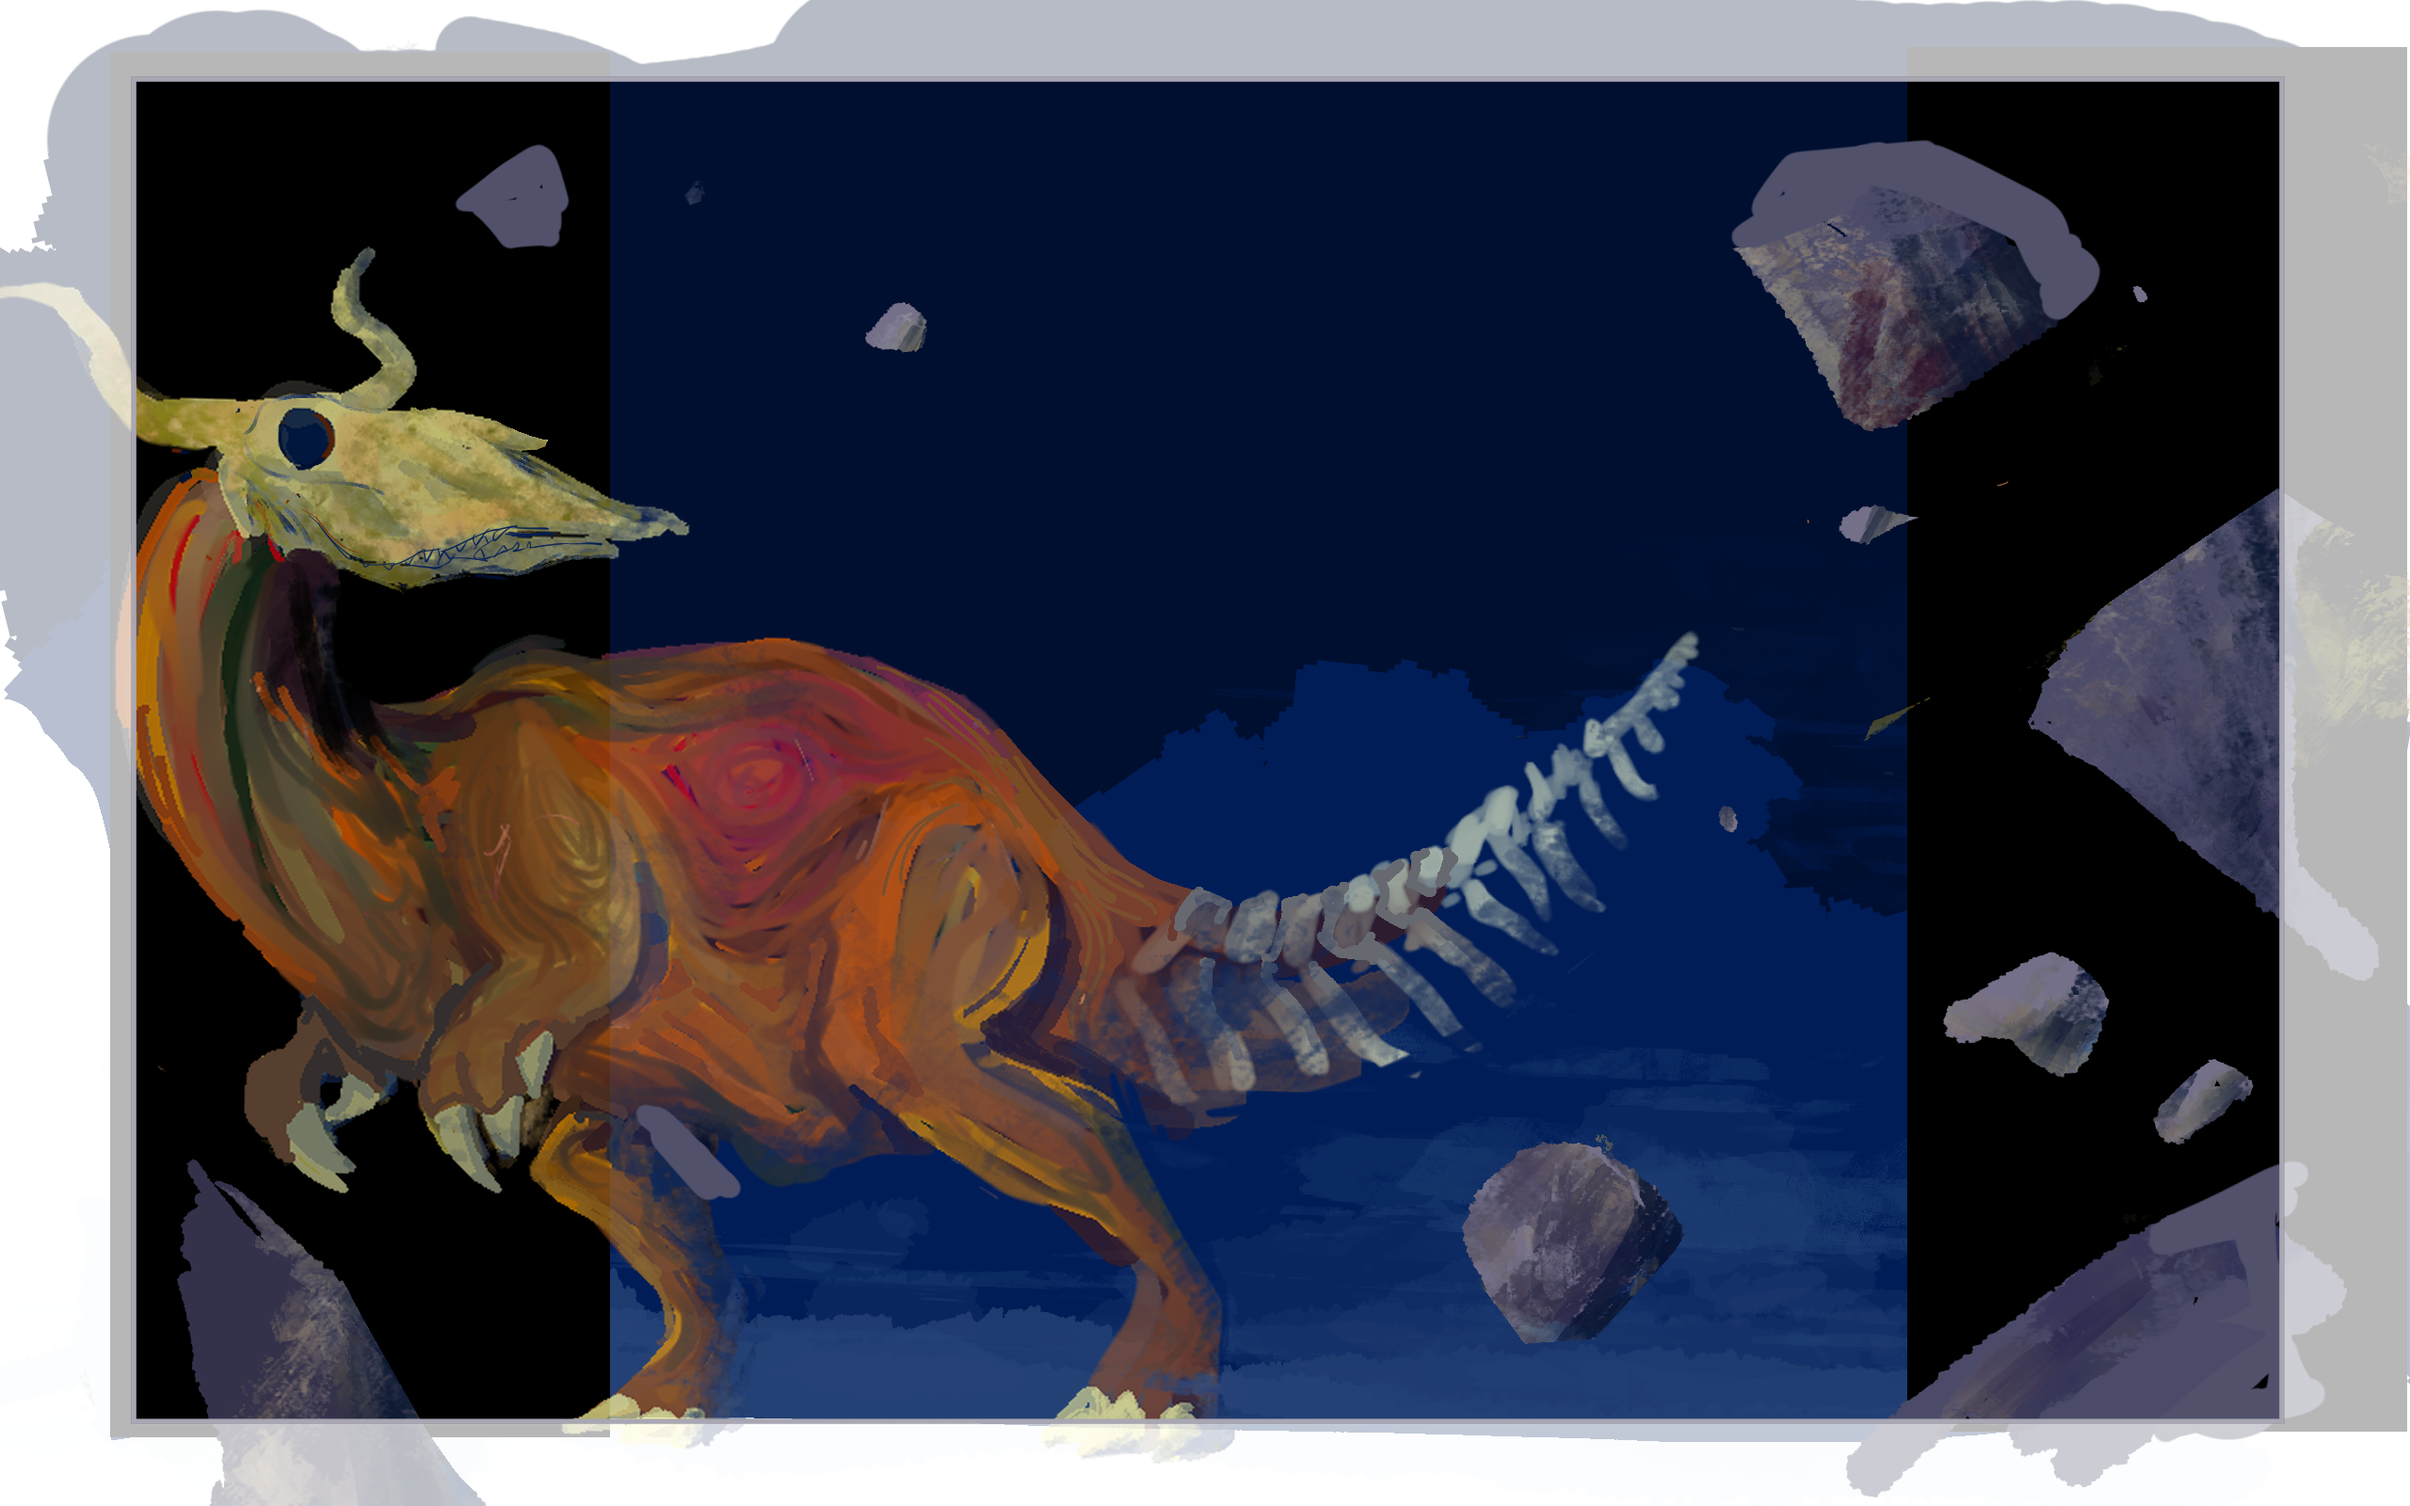
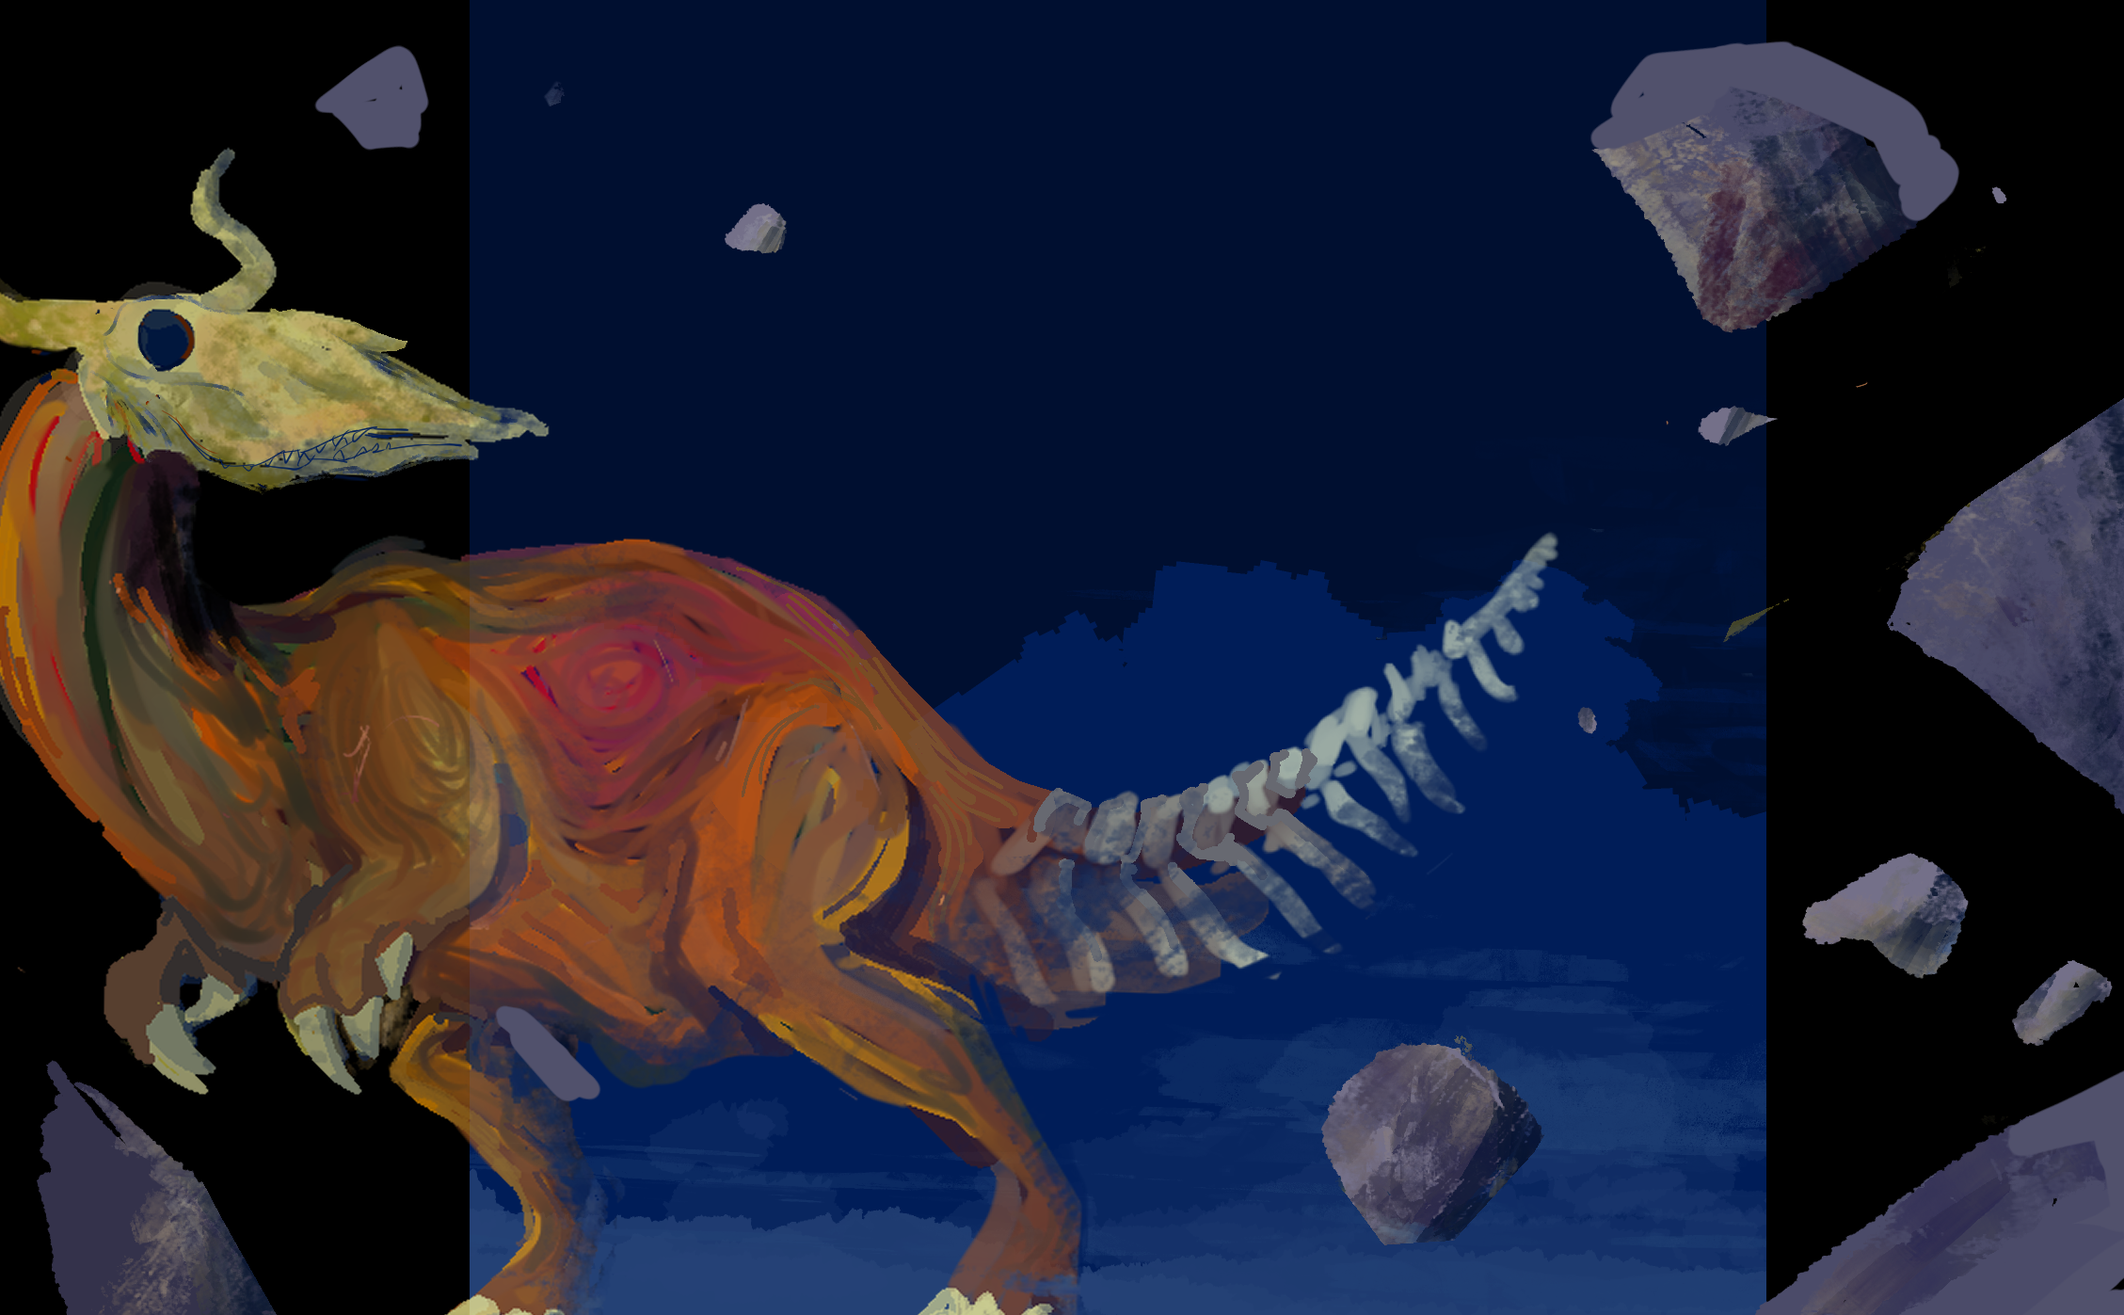
change: png at each section

diff --git a/index.html b/index.html
@@ -70,10 +70,10 @@
         <div class="main">
             <!--main-visual:一開始的背景 / main-visual-line:往下滑修改的背景-->
             <div class="main-visual">
-                <img class="main-visual-color" src="top_bg.png">
-                <img class="main-visual-profile" src="profile_bg.png">
-                <img class="main-visual-gallery" src="gallery_bg.png">
-                <img class="main-visual-product" src="product_bg.png">
+                <img class="main-visual-color" src="top_bg_lowerEarth.png">
+                <img class="main-visual-profile" src="profile_bg_dragon.png">
+                <img class="main-visual-gallery" src="gallery_bg_universe.png">
+                <img class="main-visual-product" src="product_bg_universe.png">
             </div>
             <div class="main-content">
                 <div class="main-content-subject">
